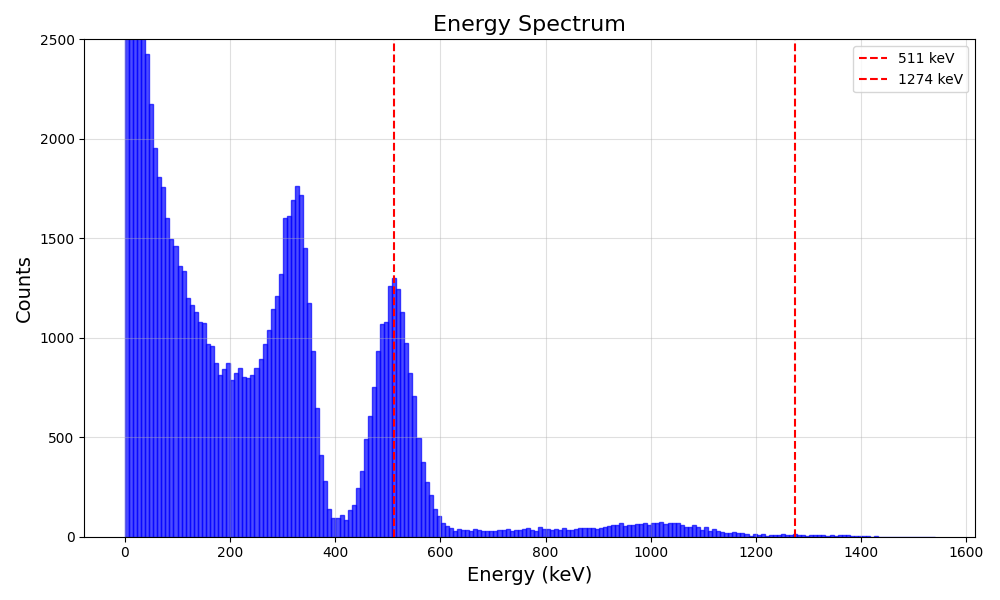
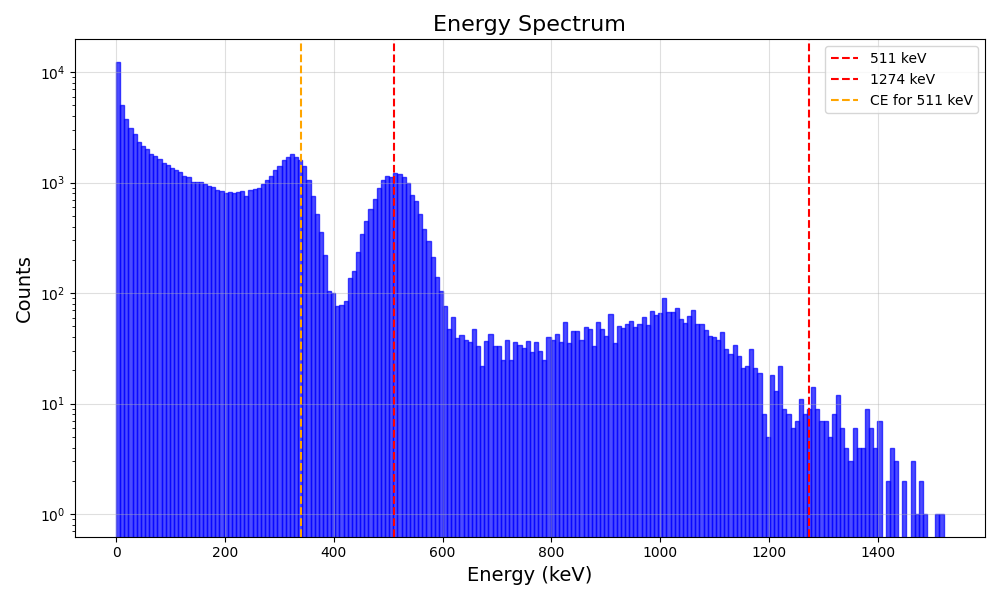
upgrades

diff --git a/Simulation/simulation.py b/Simulation/simulation.py
@@ -6,63 +6,102 @@ import detector as d
 import source as s
 import interactions as i 
 
+# File path to save the output spectrum plot
 file_path = "/mnt/c/Users/User/Desktop/info/Compton/Simulation/"
 
-ugo = d.Detector([0, 5, 0], 1.27, 2.58, 0.0695)
-franco = d.Detector([0, -5, 0], 2.54, 5.08, 0.903)
+# Initialize detectors with their respective positions and dimensions
+ugo = d.Detector([0, 5, 0], 1.27, 2.58, 0.0695)  # Detector "Ugo" at (0, 5, 0)
+franco = d.Detector([0, -5, 0], 2.54, 5.08, 0.903)  # Detector "Franco" at (0, -5, 0)
 source = s.Source()
 
+# Function to simulate the detection of gamma photons
 def gamma_detection(photons: list[p.Photon], detector: d.Detector, step: float = 0.1, source: s.Source = source):
+    """
+    Simulates the interaction of photons with a detector and calculates the detected energies.
+    
+    :param photons: List of Photon objects emitted by the source.
+    :param detector: Detector object where photons are being detected.
+    :param step: Step size for photon propagation in cm.
+    :param source: Source object representing the gamma-ray source.
+    :return: List of detected photon energies in keV.
+    """
+    # Calculate the straight-line distance between the source and the detector
     distance = np.linalg.norm(detector.position - source.position)
 
+    # List to store detected photon energies
     detected_energies = []
 
     for photon in photons: 
+        # Propagate the photon from the source to the detector's surface
         photon.propagation(distance)
 
+        # Calculate the angle (α) between the photon's trajectory and the detector's surface
         alpha_angle = np.arctan(photon.position[0] / photon.position[2]) if (photon.position[0] != 0 and photon.position[2] != 0) else 0
+        # Calculate the vertical offset (H) and the diagonal length (L) to the detector
         h = distance - photon.position[1]  
         l = h / np.cos(alpha_angle)
 
+        # Adjust the photon's propagation distance to account for the offset
         distance += l
         photon.propagation(distance)
 
+        # Initialize a distance step for interaction testing
         r = 0
-        while detector.is_in_detector(photon.position):
+        while detector.is_in_detector(photon.position):  # Check if the photon is still inside the detector
+
+            # while photon.energy > 0:
+            # Determine if the photon interacts with the detector
             if random.uniform(0, 1) < i.interaction_probability(photon, r):
+                # Simulate the interaction and create an electron based on interaction type
                 interaction = i.Interaction(i.which_interaction(photon, detector))
                 electron = interaction.interaction(photon)
 
+                # Detect the energy deposited by the electron in the detector
                 detected_energies.append(detector.detection(electron))
-                break
+                break  # Stop further propagation after interaction
 
+            # Increment the step distance and propagate the photon further
             r += step
             photon.propagation(distance + step)
     
     return detected_energies
 
+# Function to plot the energy spectrum of detected photons
 def plot_energy_spectrum(energies, fileNamePNG, bins=100, title="Energy Spectrum"):
-    """Plot a histogram of the energy spectrum."""
+    """
+    Plots a histogram of the detected photon energies.
+    
+    :param energies: List of detected photon energies in keV.
+    :param fileNamePNG: File path to save the plot as a PNG image.
+    :param bins: Number of bins for the histogram.
+    :param title: Title of the plot.
+    """
     if not energies:
         print("No energies to plot.")
         return
 
+    # Create a histogram of detected energies
     plt.figure(figsize=(10, 6))
     plt.hist(energies, bins=bins, color="blue", alpha=0.7, edgecolor="blue")
     
+    # Mark the photopeak positions (511 keV and 1274 keV) with vertical red dashed lines
     plt.axvline(511, color='red', linestyle='--', linewidth=1.5, label='511 keV')
     plt.axvline(1274, color='red', linestyle='--', linewidth=1.5, label='1274 keV')
+    plt.axvline(340, color='orange', linestyle='--', linewidth=1.5, label='CE for 511 keV') # 2/3 511
     plt.legend()
 
     plt.title(title, fontsize=16)
     plt.xlabel("Energy (keV)", fontsize=14)
     plt.ylabel("Counts", fontsize=14)
-    plt.ylim(0, 2500)
-    plt.grid(alpha=0.4)
+    plt.yscale("log")
+    # plt.ylim(0, 2500) 
+    plt.grid(alpha=0.4)  
     plt.tight_layout()
-    plt.savefig(fileNamePNG)
+    plt.savefig(fileNamePNG)  
     plt.close()
 
 number_of_photons = 100000
 energies = gamma_detection(source.testing_photons(number_of_photons), ugo)
 plot_energy_spectrum(energies, file_path + "Simulation.png", 200)
+
+print("\nEnd\n")

diff --git a/Simulation/particles.py b/Simulation/particles.py
@@ -73,6 +73,7 @@ class Photon:
         normalization, _ = quad(self.klein_nishina, 0, np.pi)
 
         max_pdf = 0.9  # Max value of the probability distribution for rejection sampling
+        
         while True:
             theta = np.random.uniform(0, np.pi)  # Random angle between 0 and pi
             u = np.random.uniform(0, max_pdf)  # Random uniform value for rejection sampling

diff --git a/Simulation/interactions.py b/Simulation/interactions.py
@@ -95,7 +95,7 @@ def photoelectric_effect(photon: p.Photon)-> p.Electron:
     photon.energy = 0
     return p.Electron(energy)
 
-def compton_scattering(photon: p.Photon) -> p.Electron:
+def compton_scattering(photon: p.Photon)-> p.Electron:
     """
     Simulate Compton scattering, producing a scattered photon and an electron.
 
